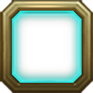
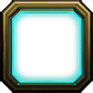
add new plane

diff --git a/Hunter/assets/script/Utils.js b/Hunter/assets/script/Utils.js
@@ -33,7 +33,7 @@ cc.Class({
 
     canSelect(pnode)
     {
-        cc.loader.loadRes("img_rect1", cc.SpriteFrame, function (err, spriteFrame) {
+        cc.loader.loadRes("img_rect", cc.SpriteFrame, function (err, spriteFrame) {
             var node = pnode.getChildByName("rect");
             node.getComponent(cc.Sprite).spriteFrame= spriteFrame
         })
